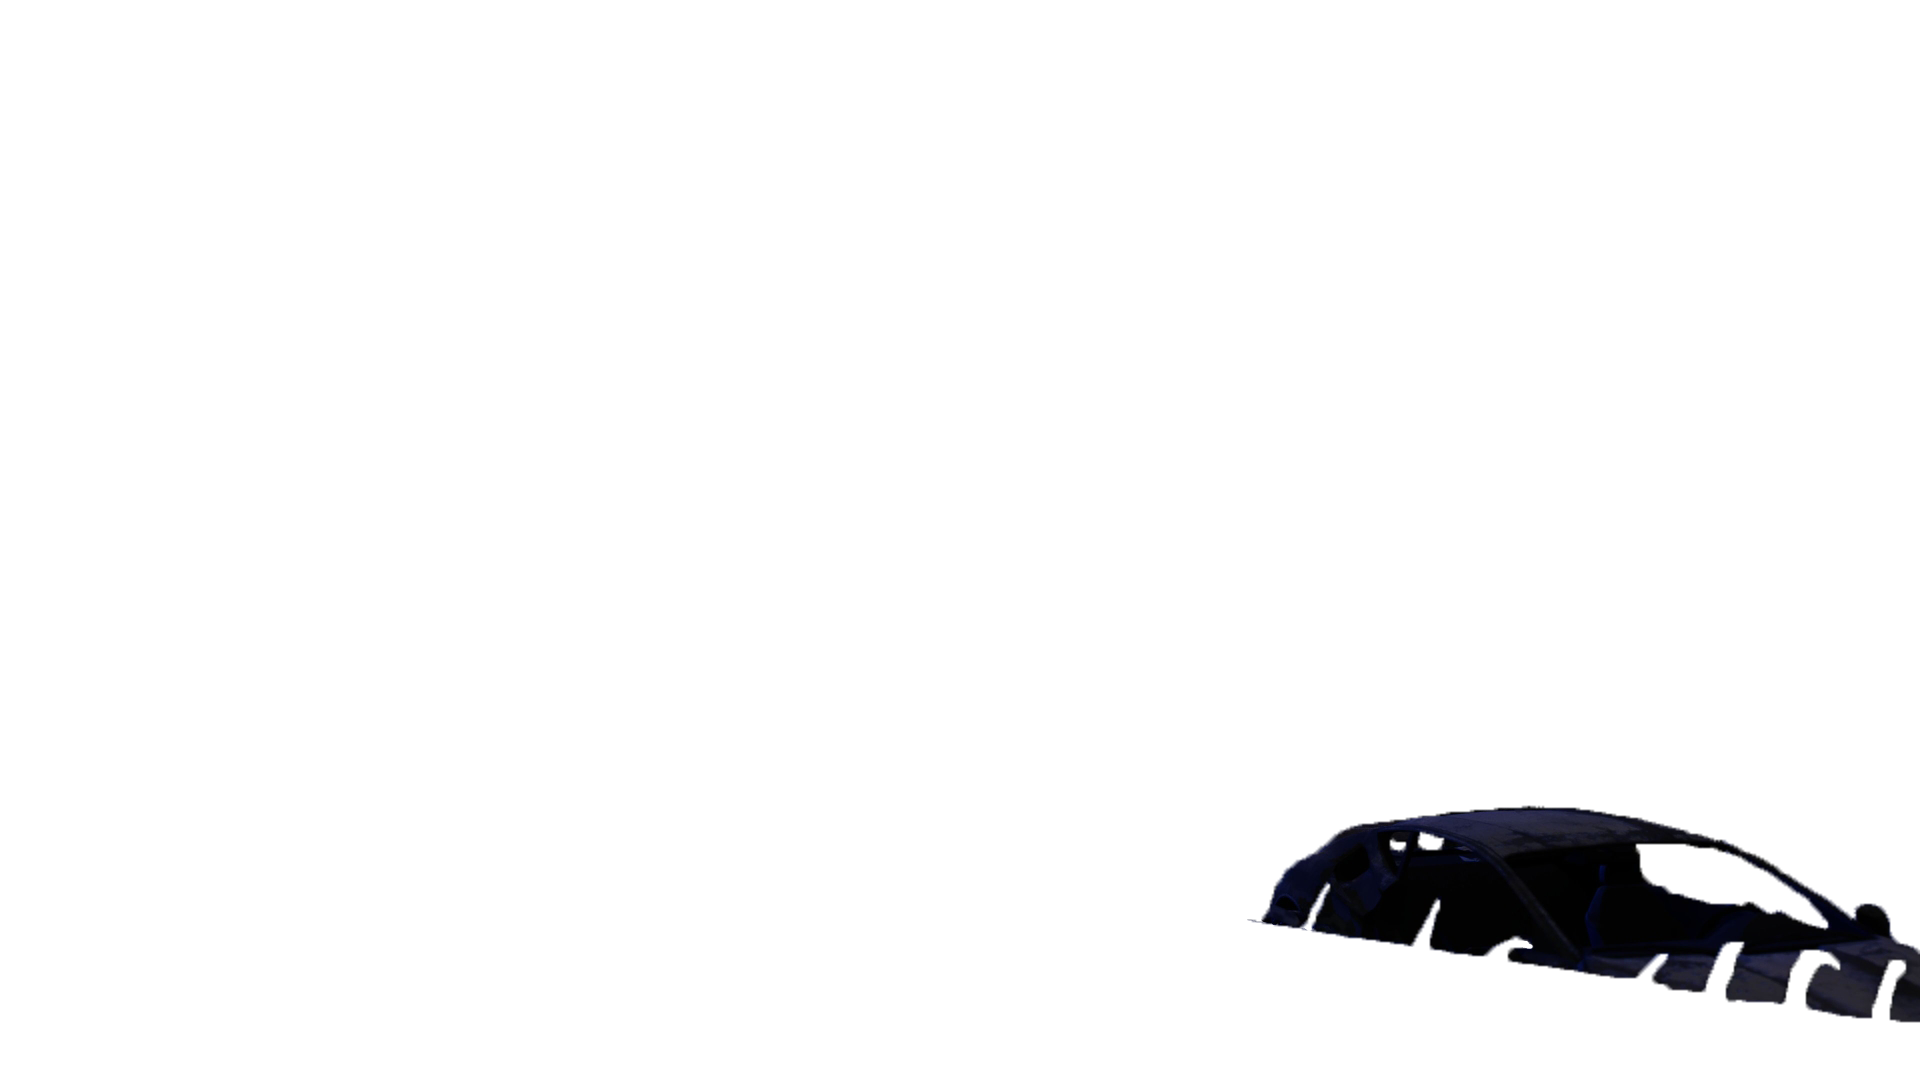
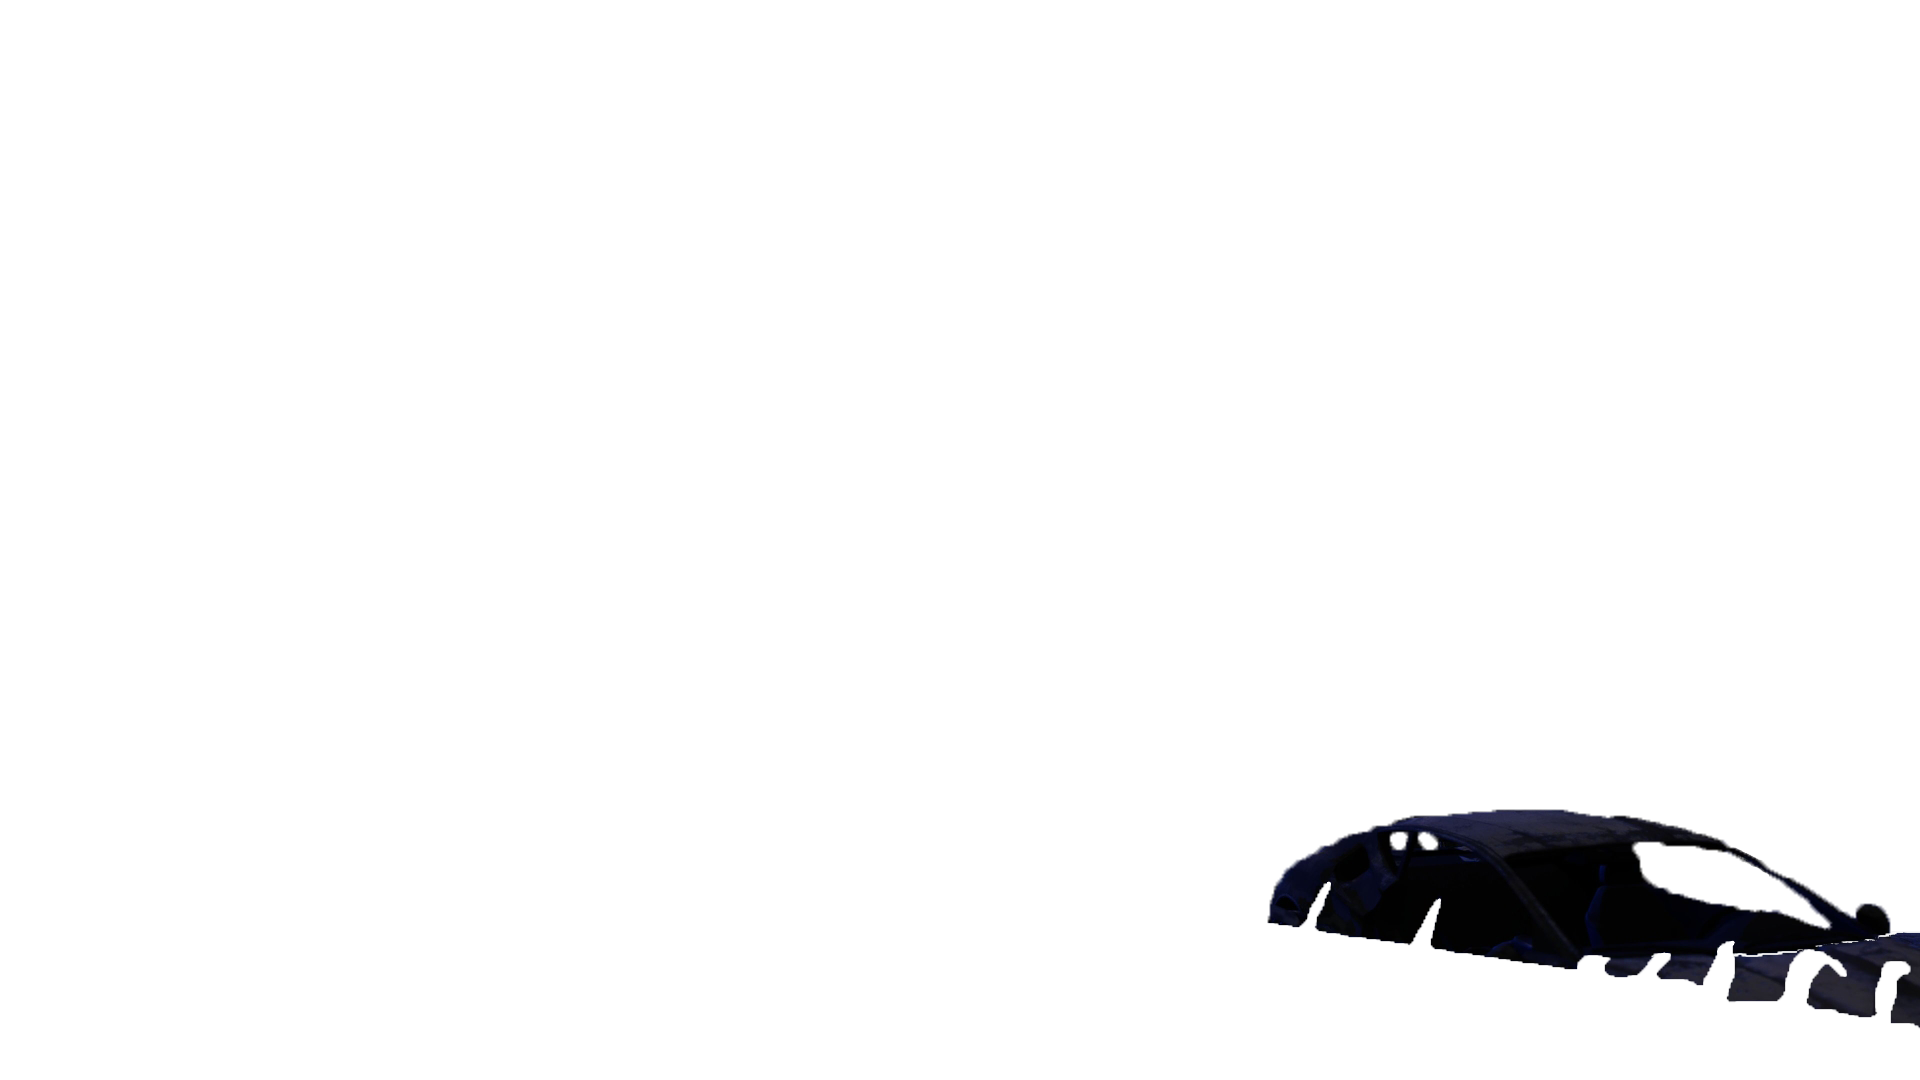
добавлен файл описания и некоторые базовые стили для parallax

diff --git a/index.html b/index.html
@@ -4,6 +4,42 @@
     <meta charset="UTF-8" />
     <meta name="viewport" content="width=device-width, initial-scale=1.0" />
     <title>Parralax Game</title>
+    <link rel="stylesheet" href="./css/main.css" />
+    <script src="./js/app.js" defer></script>
   </head>
-  <body></body>
+  <body>
+    <header class="main__header">
+      <div class="layers">
+        <div class="layers__header">
+          <div class="layers__title">Welcome to Parralax</div>
+          <div class="layers__game">Dying Light 2</div>
+        </div>
+        <div
+          class="layer layers__city"
+          style="background-image: url(./img/city.png)"
+        ></div>
+        <div
+          class="layer layers__pillar"
+          style="background-image: url(./img/city_pillar.png)"
+        ></div>
+        <div
+          class="layer layers__tank"
+          style="background-image: url(./img/city_tank.png)"
+        ></div>
+        <div
+          class="layer layers__barricade"
+          style="background-image: url(./img/city_barricade.png)"
+        ></div>
+        <div
+          class="layer layers__car"
+          style="background-image: url(./img/city_car.png)"
+        ></div>
+      </div>
+
+      <article
+        class="main__article"
+        style="background-image: url(./img/dungeon.jpg)"
+      ></article>
+    </header>
+  </body>
 </html>

diff --git a/css/main.css b/css/main.css
@@ -1,0 +1,68 @@
+* {
+  box-sizing: border-box;
+  margin: 0;
+  padding: 0;
+}
+
+@font-face {
+  font-family: raleway_f;
+  src: url(../fonts/raleway-regular.woff2);
+}
+
+@font-face {
+  font-family: raleway_f;
+  src: url(../fonts/raleway-black.woff2);
+  font-weight: 900;
+}
+
+body {
+  background-color: #010101;
+  color: #ffff;
+  font-family: raleway_f, sans-serif;
+  line-height: 1.55;
+}
+
+.main__header {
+  position: relative;
+}
+
+.layers {
+  height: 100vh;
+  display: flex;
+  align-items: center;
+  justify-content: center;
+  text-align: center;
+  overflow: hidden;
+  position: relative;
+}
+
+.layer {
+  height: 100%;
+  width: 100%;
+  position: absolute;
+  background-size: cover;
+  background-position: center;
+}
+
+.main__article {
+  min-height: 100vh;
+  width: 100%;
+  position: absolute;
+  background-size: cover;
+  background-position: center;
+}
+
+.layers__tank {
+  transform: translate3d(0, calc(var(--scrollTop) / -3), 0);
+}
+.layers__barricade {
+  transform: translate3d(0, calc(var(--scrollTop) / -3), 0);
+}
+
+.layers__car {
+  transform: translate3d(0, calc(var(--scrollTop) / -3), 0);
+}
+
+.layers__pillar {
+  transform: translate3d(0, calc(var(--scrollTop) / -4), 0);
+}

diff --git a/js/app.js b/js/app.js
@@ -1,0 +1,3 @@
+window.addEventListener("scroll", (e) => {
+  document.body.style.cssText = `--scrollTop: ${this.scrollY}px`;
+});

diff --git a/README.md b/README.md
@@ -1,0 +1,46 @@
+# Game Parallax
+
+Данный проект был создан после просмотра видеоурока от канала [WebDesign Master](https://www.youtube.com/@wdm).
+
+Задачи по проекту:
+
+- Повторение проекта по видеоуроку.
+- Проект выполнять со своими исходниками.
+- Постараться сделать максимально похожий результат по итогу видеоурока.
+- Добавить свои задумки.
+
+---
+
+### 1.0 Стартовая версия проекта
+
+- Создан Html.
+- Вырезаны слои в photoshop.
+
+- Добавлены и настроены первоначальные стили.
+
+![layers](material_for_description/layers.jpg)
+
+---
+
+### 1.1 Исправление исходников
+
+При прокрутке страницы вниз находящиеся вырезанные части за слоями
+, были видны черным цветом.
+
+Пример:
+
+![projectV1.1](material_for_description/layers_example.jpg)
+
+Для исправвления я дорисовывал в photoshop недостающие части
+
+Пример того что было до:
+
+![projectV1.1](material_for_description/city_example_before.jpg)
+
+Пример того как стало после:
+
+![projectV1.1](material_for_description/city_example_after.jpg)
+
+В видеоуроке исходники подобраны таким образом что слои перекрывают все за собой и такие манипуляции в photoshop не нужны были, свои же исходники я выбирал что бы были схожи по смыслу нижний и верхний уровень.
+
+---
